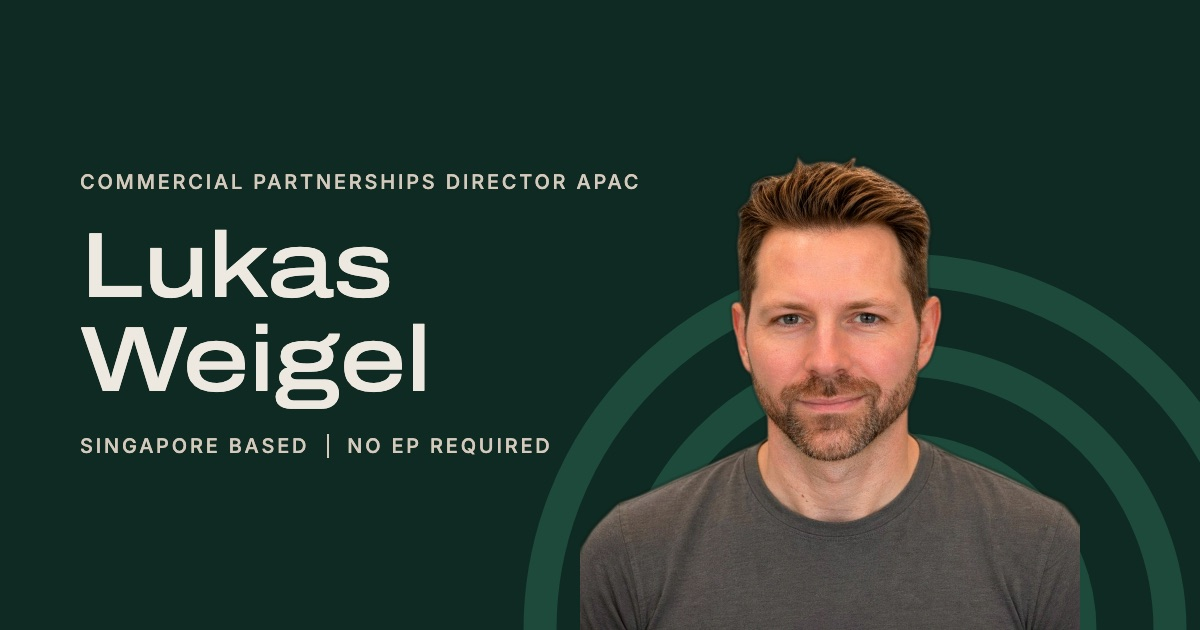
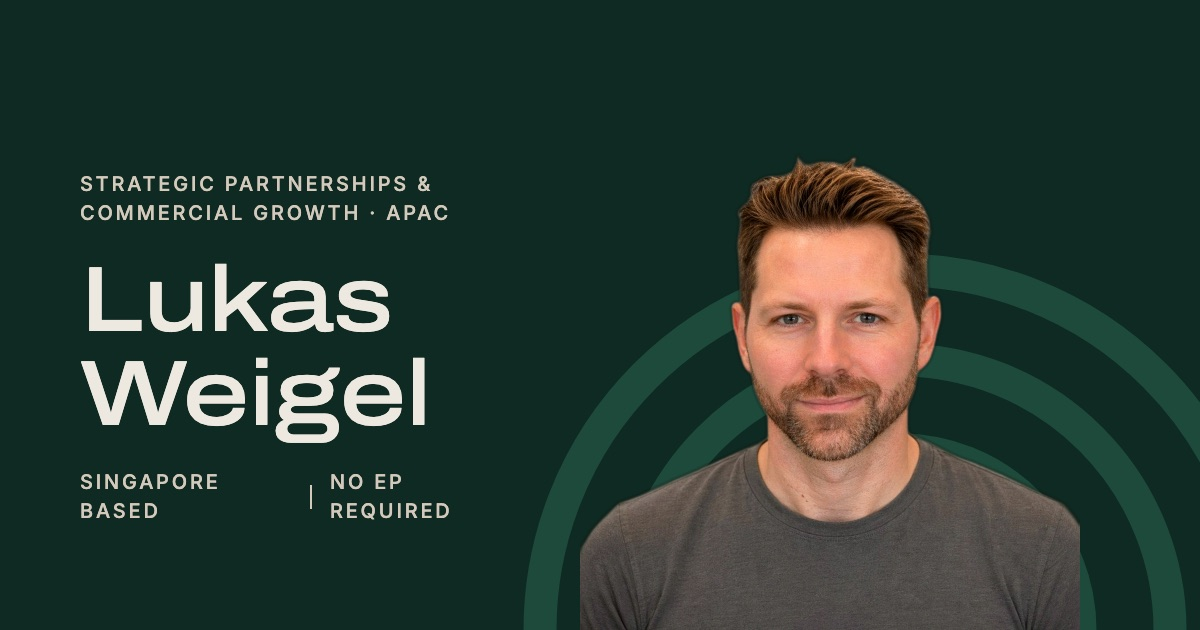
Page copy: Lukas's new words (How I work, Track record, Why fintech & what's next, Beyond work, Let's connect)
New hero summary, three new working principles, HYROX APAC replaces Cigna in Track record, link preview and search text name Coinbase, NTT DATA, Grab and HYROX. Contact card title follows the page's top line.

Changed region(s): [[0.0617, 0.2714, 0.5242, 0.7238], [0.2775, 0.754, 0.37, 0.8444], [0.0617, 0.754, 0.185, 0.8444]]

diff --git a/index.html b/index.html
@@ -3,10 +3,10 @@
 <head>
 <meta charset="utf-8">
 <meta name="viewport" content="width=device-width, initial-scale=1, viewport-fit=cover">
-<title>Lukas Weigel · Commercial Partnerships Director APAC</title>
-<meta name="description" content="Commercial Partnerships Director APAC. Singapore based, no EP required. 10+ years of international experience, working with brands in the banking, insurance, fintech and crypto space. Now looking to lead brand and strategic partnerships, ideally at a fintech, crypto or technology company.">
-<meta property="og:title" content="Lukas Weigel · Commercial Partnerships Director APAC">
-<meta property="og:description" content="Singapore based, no EP required. Deals with Coinbase, NTT DATA and Cigna. Now looking to lead brand and strategic partnerships, ideally at a fintech, crypto or technology company.">
+<title>Lukas Weigel · Strategic Partnerships &amp; Commercial Growth · APAC</title>
+<meta name="description" content="Strategic Partnerships &amp; Commercial Growth · APAC. Former professional basketball player, commercial partnerships leader and curious builder, based in Singapore. Partnerships with Coinbase, NTT DATA, Grab and HYROX.">
+<meta property="og:title" content="Lukas Weigel · Strategic Partnerships &amp; Commercial Growth · APAC">
+<meta property="og:description" content="Former professional basketball player, commercial partnerships leader and curious builder. Partnerships with Coinbase, NTT DATA, Grab and HYROX.">
 <meta property="og:image" content="https://lukas.wynarc.com/og.jpg">
 <meta property="og:url" content="https://lukas.wynarc.com/">
 <meta property="og:type" content="profile">
@@ -45,6 +45,12 @@ p { margin: 0; max-width: 64ch; }
 /* Summary runs the full width of the page, under the name and photo */
 .hero .summary { grid-column: 1 / -1; border-top: 1px solid var(--pine); padding-block: 24px 52px; }
 .hero .lede { font-size: 1.15rem; color: var(--stone); max-width: none; }
+.hero .lede + .lede { margin-top: 12px; }
+/* "Former professional basketball player. Commercial partnerships leader. Curious builder.", one sentence per line */
+.tagline { font-family: var(--f-display); font-stretch: 125%; font-weight: 500; font-size: 1.05rem; line-height: 1.4; color: var(--stone); }
+.tagline span { display: block; }
+/* The wide heading font draws "×" as a small star; use the text font for it */
+.x { font-family: var(--f-body); font-stretch: 100%; font-weight: 400; }
 /* Phone and email, the phone set like the card number */
 .reach { display: flex; flex-wrap: wrap; align-items: baseline; gap: 6px 22px; }
 .reach a { text-decoration: none; color: var(--stone); border-bottom: 1px solid var(--pine); padding-bottom: 2px; }
@@ -63,13 +69,14 @@ p { margin: 0; max-width: 64ch; }
 .hero .arcs { --r: clamp(80px, 16vw, 230px); position: absolute; top: 0; right: calc(var(--r) * -0.688); width: calc(var(--r) * 2.085); height: auto; pointer-events: none; }
 .portrait img { position: relative; width: 100%; -webkit-mask-image: linear-gradient(to bottom, #000 82%, transparent 100%); mask-image: linear-gradient(to bottom, #000 82%, transparent 100%); }
 @media (max-width: 720px) {
-  /* One column; the summary sits right under "Singapore based | No EP required", before phone and email */
+  /* One column: photo, name, then phone, email and buttons straight away, then the summary */
   .hero .wrap { grid-template-columns: 1fr; padding-top: max(24px, env(safe-area-inset-top)); padding-bottom: 40px; gap: 18px 0; }
   .hero .copy { display: contents; }
   .portrait { order: -1; justify-self: start; max-width: 270px; margin-top: 0; margin-bottom: -14px; }
-  .hero .summary { order: 1; border-top: 0; padding-block: 0; }
+  .hero .summary { order: 2; border-top: 0; padding-block: 4px 0; }
   .hero .lede { font-size: 1.1rem; }
-  .hero .reach, .hero .actions { order: 2; }
+  .tagline { font-size: 0.94rem; }
+  .hero .reach, .hero .actions { order: 1; }
 }
 
 section { padding-block: 60px 4px; }
@@ -84,9 +91,9 @@ h2 { font-size: clamp(1.5rem, 4vw, 2.1rem); line-height: 1.15; }
 .deals li { display: grid; grid-template-columns: minmax(0, 1fr) auto; gap: 4px 24px; padding: 16px 0; border-bottom: 1px solid var(--hair); }
 .deals .label { color: var(--muted); font-size: 0.68rem; }
 .deals h3 { font-size: 1.1rem; margin-top: 2px; }
-.deals .val { font-family: var(--f-display); font-stretch: 125%; font-size: 0.95rem; text-align: right; white-space: nowrap; font-variant-numeric: tabular-nums; padding-top: 18px; }
+.deals .val { font-family: var(--f-display); font-stretch: 125%; font-size: 0.95rem; text-align: right; white-space: nowrap; font-variant-numeric: tabular-nums; padding-top: 4px; }
 .deals p { grid-column: 1 / -1; color: var(--muted); font-size: 0.96rem; }
-@media (max-width: 560px) { .deals li { grid-template-columns: 1fr; } .deals .val { text-align: left; padding-top: 0; } }
+@media (max-width: 560px) { .deals li { grid-template-columns: 1fr; } .deals .val { text-align: left; padding-top: 0; white-space: normal; } }
 
 /* Core skills */
 .skills { display: grid; grid-template-columns: repeat(2, minmax(0, 1fr)); gap: 12px; }
@@ -95,9 +102,17 @@ h2 { font-size: clamp(1.5rem, 4vw, 2.1rem); line-height: 1.15; }
 .skills p { color: var(--muted); font-size: 0.95rem; }
 .skills p span { display: block; white-space: nowrap; } /* one skill per line, never split */
 .nw { white-space: nowrap; } /* keep a short phrase on one line */
+.skills.three { grid-template-columns: repeat(3, minmax(0, 1fr)); }
+.skills.three h3 { font-family: var(--f-display); font-stretch: 125%; font-size: 1rem; line-height: 1.3; }
+@media (max-width: 760px) { .skills.three { grid-template-columns: 1fr; } }
 @media (max-width: 620px) { .skills { grid-template-columns: 1fr; } }
 
 /* Personal */
+.why p { max-width: 62ch; font-size: 1.05rem; }
+.why p + p { margin-top: 12px; }
+/* Off the clock: short paragraphs with a bold lead-in */
+.personal.prose li { display: block; }
+.personal.prose b { font-weight: 500; }
 .personal { list-style: none; margin: 0; padding: 0; border-top: 1px solid var(--forest); }
 .personal li { display: grid; grid-template-columns: minmax(0, 12rem) minmax(0, 1fr); gap: 4px 24px; padding: 14px 0; border-bottom: 1px solid var(--hair); }
 .personal .label { color: var(--muted); font-size: 0.68rem; padding-top: 5px; }
@@ -105,7 +120,7 @@ h2 { font-size: clamp(1.5rem, 4vw, 2.1rem); line-height: 1.15; }
 @media (max-width: 560px) { .personal li { grid-template-columns: 1fr; } }
 
 /* What I'd bring */
-.pitch { display: grid; grid-template-columns: repeat(2, minmax(0, 1fr)); gap: 28px 40px; border-top: 1px solid var(--hair); padding-top: 22px; }
+.pitch { display: grid; grid-template-columns: repeat(3, minmax(0, 1fr)); gap: 28px 32px; border-top: 1px solid var(--hair); padding-top: 22px; }
 .pitch div { display: grid; gap: 8px; align-content: start; }
 .pitch h3 { font-size: 1.08rem; }
 .pitch p { color: var(--muted); font-size: 0.96rem; }
@@ -117,7 +132,6 @@ h2 { font-size: clamp(1.5rem, 4vw, 2.1rem); line-height: 1.15; }
 .looking { background: var(--forest); color: var(--stone); margin-top: 72px; position: relative; overflow: hidden; }
 .looking .wrap { position: relative; padding-block: 52px 56px; display: grid; gap: 18px; }
 .looking .label { color: var(--sand); }
-.looking h2 { max-width: 24ch; }
 .looking p { color: var(--sand); }
 .contact-lines { display: grid; gap: 4px; font-size: 0.92rem; color: var(--sand); }
 .contact-lines a { color: var(--stone); text-decoration-color: var(--pine); text-underline-offset: 3px; }
@@ -138,13 +152,10 @@ footer { padding-block: 22px max(28px, env(safe-area-inset-bottom)); font-size: 
   </svg>
   <div class="wrap">
     <div class="copy">
-      <div class="label">Commercial Partnerships Director APAC</div>
+      <div class="label">Strategic Partnerships &amp; Commercial Growth · APAC</div>
       <h1>Lukas Weigel</h1>
       <div class="label sub"><span>Singapore based</span><span class="bar" aria-hidden="true"></span><span>No EP required</span></div>
-      <div class="reach">
-        <a class="tel" href="tel:+6589506244">+65 8950 6244</a>
-        <a class="mail" href="mailto:lukasvweigel@gmail.com?subject=Hello%20from%20SFF">lukasvweigel@gmail.com</a>
-      </div>
+      <p class="tagline"><span>Former professional basketball player.</span> <span>Commercial partnerships leader.</span> <span>Curious builder.</span></p>
       <div class="actions">
         <a class="btn solid" href="mailto:lukasvweigel@gmail.com?subject=Hello%20from%20SFF">Email me</a>
         <a class="btn line" href="https://www.linkedin.com/in/lukas-v-weigel" target="_blank" rel="noopener">LinkedIn</a>
@@ -157,66 +168,60 @@ footer { padding-block: 22px max(28px, env(safe-area-inset-bottom)); font-size: 
       <img src="lukas.png" width="600" height="600" alt="Portrait of Lukas Weigel">
     </div>
     <div class="summary">
-      <p class="lede">Former professional basketball player turned commercial partnerships leader. Over the past decade, I've built commercial relationships across APAC and Europe, negotiated partnerships with companies including NTT DATA, Coinbase, Cigna and Grab, and owned a €2.5M business P&amp;L. Now I want to build that value from inside a business, ideally at a fintech, crypto or technology company.</p>
+      <p class="lede">Over the past decade, I've built commercial partnerships across APAC and Europe, developed new markets and propositions, and negotiated complex, multi-year agreements across financial services, technology and consumer sectors.</p>
+      <p class="lede">Real partnership value goes beyond getting a deal signed. It's about understanding what matters to both sides, finding the right commercial model and staying involved to make sure it delivers. That's the experience I now want to bring into fintech and technology, closer to the product, customers and decisions that shape growth.</p>
     </div>
   </div>
 </header>
 
 <main>
-  <section class="wrap" id="skills">
-    <div class="head"><div class="rule"></div><div class="label">Core skills</div><h2>Where I add value</h2></div>
-    <div class="skills">
-      <div><h3>Strategic partnerships</h3><p><span>Origination</span><span>Deal structuring</span><span>Complex negotiation</span></p></div>
-      <div><h3>Market development</h3><p><span>APAC go-to-market</span><span>Market entry</span><span>Proposition design</span></p></div>
-      <div><h3>Commercial leadership</h3><p><span>P&amp;L ownership</span><span>Revenue growth</span><span>C-suite relationships</span></p></div>
-      <div><h3>Emerging technology</h3><p><span>Digital assets and Web3</span><span>Applied AI</span><span>AI-enabled workflows</span></p></div>
-    </div>
-  </section>
-
   <section class="wrap" id="how">
-    <div class="head"><div class="label">How I work</div><h2>What makes a partnership work</h2></div>
+    <div class="head"><div class="rule"></div><h2>How I work</h2></div>
     <div class="pitch">
-      <div><h3>Start with what both sides need</h3><p>A good partnership gives each side something it couldn't get alone. For Coinbase and the Nike Melbourne Marathon, that was an NFT integration I came up with. It drove a 10x increase in new user acquisition.</p></div>
-      <div><h3>Know the other side of the table</h3><p>I've negotiated for properties like the NBA, Formula 1 and HYROX, so I know what a property will give if you push, where the value hides in a contract, and which assets actually move a brand's numbers.</p></div>
-      <div><h3>Bring the right people together</h3><p>Big partnerships rarely rest on one relationship. I've worked with senior teams at WPP, Omnicom, Publicis and Hakuhodo, and as Global Category Lead for Crypto &amp; Blockchain I advised teams in other markets on their propositions.</p></div>
-      <div><h3>The signature is the start</h3><p>What counts is what the partnership delivers. I delivered the BMW International Open end to end, and ran on-site marketing for FIBA's partners at the 2023 Basketball World Cup in Manila.</p></div>
+      <div><h3>I look beyond the obvious opportunity</h3><p>Whether it's entering a new market, reaching a different audience or developing something that hasn't been done before, I like challenging conventional approaches and finding commercial opportunities worth pursuing.</p></div>
+      <div><h3>I bring different worlds together</h3><p>I've worked between global brands, technology companies, rights holders and agencies, often with competing priorities. I know when to push, when to compromise and how to turn different interests into a workable agreement.</p></div>
+      <div><h3>I'm as involved in execution as I am in strategy</h3><p>I've managed the BMW International Open end to end and worked on-site with partners at the FIBA Basketball World Cup. I like being close to the action, solving problems and seeing ideas through to delivery.</p></div>
     </div>
   </section>
 
   <section class="wrap" id="deals">
-    <div class="head"><div class="label">Selected partnerships</div><h2>A few I'm proud of</h2></div>
-    <p class="intro">About 30 accounts across fintech, crypto, banking, cloud and consumer tech. Five that show the range:</p>
+    <div class="head"><h2>Track record</h2></div>
+    <p class="intro">A few partnerships and commercial milestones I'm proud of.</p>
     <ul class="deals">
-      <li><div><div class="label">Crypto</div><h3>Coinbase</h3></div><span class="val">$360K · 10x new users</span><p>An industry-first partnership with the Nike Melbourne Marathon, which I originated and closed.</p></li>
-      <li><div><div class="label">Technology</div><h3>NTT DATA</h3></div><span class="val">€2.8M · 5 years</span><p>Led the full negotiation of the largest partnership in BMW's golf portfolio, bringing real-time data and AI-driven analytics into BMW's client experience.</p></li>
-      <li><div><div class="label">Health insurance</div><h3>Cigna Healthcare</h3></div><span class="val">$350K · 3 years</span><p>A three-year title partnership with HYROX, structured from proposition through execution.</p></li>
-      <li><div><div class="label">Consumer tech</div><h3>Grab</h3></div><span class="val">1 year · Singapore</span><p>Structured a one-year World Rugby partnership for the Singapore market.</p></li>
-      <li><div><div class="label">Automotive</div><h3>BMW</h3></div><span class="val">€2.5M business P&amp;L</span><p>Owned the P&amp;L for BMW's golf events, beat the annual revenue target, and reviewed performance with BMW Marketing every quarter.</p></li>
+      <li><h3>Coinbase <span class="x">×</span> Nike Melbourne Marathon</h3><span class="val">$360K · B2B2C Customer Acquisition</span><p>Originated the partnership and co-developed an industry-first NFT integration with Coinbase, connecting the brand with a new consumer audience through a technology-enabled acquisition campaign.</p></li>
+      <li><h3>NTT DATA <span class="x">×</span> BMW</h3><span class="val">€2.8M · Technology Integration <span class="x">&amp;</span> Commercialisation</span><p>Originated and led the partnership from initial conversations through C-level negotiations to signature, bringing real-time data and AI-driven analytics into BMW Golf's customer experience.</p></li>
+      <li><h3>Grab <span class="x">×</span> World Rugby</h3><span class="val">B2B2C · Audience Reach <span class="x">&amp;</span> Shared Value</span><p>Structured a Singapore-market partnership connecting Grab's consumer ecosystem with World Rugby's event audience, designed to extend audience reach and create value for both organisations.</p></li>
+      <li><h3>HYROX APAC</h3><span class="val">0<span class="x">→</span>1 · Regional Commercial Development</span><p>Played a central role in developing HYROX's APAC commercial proposition from the ground up, shaping priority categories and the regional route to market, and securing its first regional partnerships.</p></li>
+      <li><h3>BMW Golf</h3><span class="val">€2.5M Annual Revenue Target · P&amp;L Ownership</span><p>Owned the commercial P&amp;L and exceeded the annual revenue target, leading a team that grew from two to more than ten during tournament peaks.</p></li>
     </ul>
   </section>
 
   
 
+  <section class="wrap" id="fintech">
+    <div class="head"><h2>Why fintech&nbsp;<span class="x">&amp;</span> what's next</h2></div>
+    <div class="why">
+      <p>Having lived across Europe, the US and Asia, I've experienced first-hand how fintech makes life across borders easier. In Southeast Asia, I've seen its potential to bring financial services to underserved communities. Working with fintech businesses over the years has only deepened my interest in the industry.</p>
+      <p>I'm looking to join an ambitious fintech or technology business, bringing my commercial experience to grow its presence across APAC. I want to shape commercial direction, build meaningful partnerships and take ownership and succeed together.</p>
+    </div>
+  </section>
 
   <section class="wrap" id="personal">
-    <div class="head"><div class="label">Personal</div><h2>Off the clock</h2></div>
-    <ul class="personal">
-      <li><span class="label">Basketball</span><span>Four years as a professional in Germany's ProA and ProB leagues, from 2013 to 2017, including time as team captain. Before that, a basketball scholarship in the US, where I graduated cum laude. It's where I learned discipline, resilience and how to lead a cross-cultural team under pressure.</span></li>
-      <li><span class="label">Endurance</span><span>Long-distance triathlete and HYROX Pro competitor. HYROX is also a sport I've worked on: I secured its first partnerships in APAC.</span></li>
-      <li><span class="label">Outdoors</span><span>I love the mountains. Certified sailor and avid golfer.</span></li>
-      <li><span class="label">AI</span><span>I build my own AI agents for research, writing, scheduling and workflow automation. This page, and the card that brought you here, were built with AI too.</span></li>
-      <li><span class="label">Also</span><span>History buff.</span></li>
-      <li><span class="label">Lived in</span><span>Germany, the US and Singapore</span></li>
-      <li><span class="label">Languages</span><span>English and German</span></li>
+    <div class="head"><h2>Beyond work</h2></div>
+    <ul class="personal prose">
+      <li><b>Basketball:</b> Took me from Germany to a US college scholarship, graduating cum laude, then back to play professionally for various teams including German Bundesliga.</li>
+      <li><b>Training:</b> I was at one of the first HYROX events ever in Hamburg in 2017. Since then, I've competed in long-distance triathlon and HYROX Pro. I still enjoy type 3 fun.</li>
+      <li><b>AI &amp; building:</b> I build applications, AI agents and connected workflows that I use across work, training and everyday life. I like turning ideas into things that actually work. This website and the unusual card that brought you here were built with AI, too.</li>
+      <li><b>Beyond that:</b> I love the mountains and I am a certified sailor. I'm bad at golf, but really enjoy it. History is where I nerd out. I've called Germany, the US and Singapore home, and speak German and English fluently.</li>
     </ul>
   </section>
 </main>
 
 <section class="looking" id="contact">
   <div class="wrap">
-    <div class="label">What's next</div>
-    <h2>Brand and strategic partnerships in fintech, crypto, tech and beyond.</h2>
-    <p>Director level, based in Singapore with an APAC remit. Whether we met at Singapore FinTech Festival or someone sent you this page, I'd be glad to keep the conversation going.</p>
+    <h2>Let's connect</h2>
+    <p>If we met at Singapore FinTech Festival, or someone shared this page with you, I'd love to continue the conversation.</p>
+    <p>Whether it's a potential opportunity, an introduction or simply exchanging ideas, please reach out.</p>
     <div class="actions">
       <a class="btn solid" href="mailto:lukasvweigel@gmail.com?subject=Hello%20from%20SFF">Email me</a>
       <a class="btn line" href="https://www.linkedin.com/in/lukas-v-weigel" target="_blank" rel="noopener">LinkedIn</a>
@@ -224,9 +229,8 @@ footer { padding-block: 22px max(28px, env(safe-area-inset-bottom)); font-size: 
       
     </div>
     <div class="contact-lines">
-      <a href="tel:+6589506244">+65 8950 6244</a>
-      <a href="mailto:lukasvweigel@gmail.com">lukasvweigel@gmail.com</a>
-      <span>linkedin.com/in/lukas-v-weigel · full career history</span>
+      <span>Singapore based · <a href="tel:+6589506244">+65 8950 6244</a> · <a href="mailto:lukasvweigel@gmail.com">lukasvweigel@gmail.com</a></span>
+      <a href="https://www.linkedin.com/in/lukas-v-weigel" target="_blank" rel="noopener">Full career history</a>
     </div>
   </div>
 </section>
